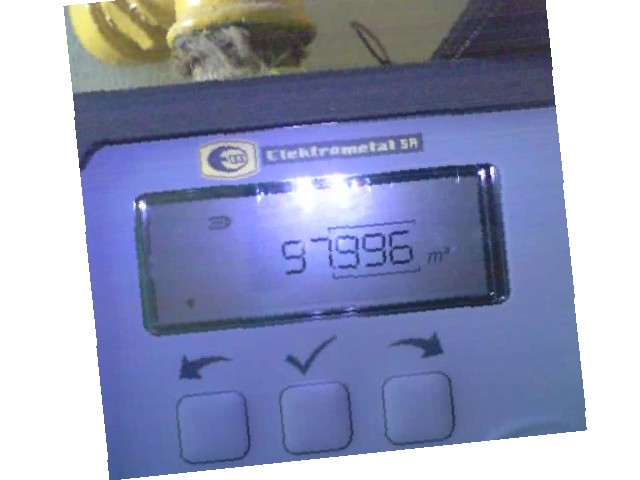
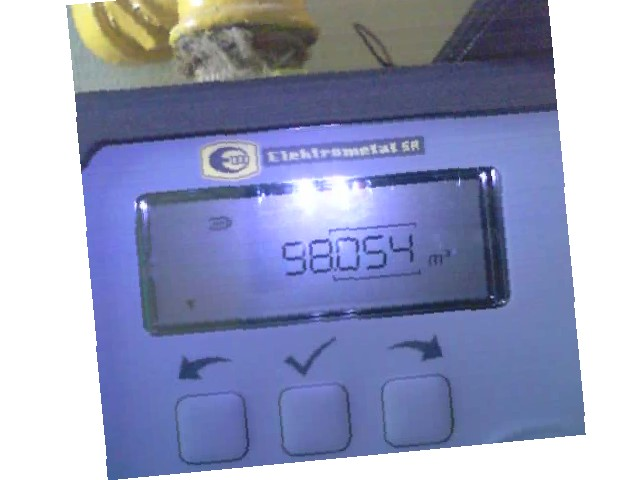
Automatyczna aktualizacja strony i danych

diff --git a/index.html b/index.html
@@ -35,11 +35,11 @@
 <body>
     <div class="container">
         <h1>Bieżący Stan Licznika</h1>
-        <div class="status">Ostatnia aktualizacja danych:<br><span class="timestamp">2026-10-27 10:42:42</span></div>
+        <div class="status">Ostatnia aktualizacja danych:<br><span class="timestamp">2026-10-27 10:48:09</span></div>
         <div class="odczyt">93498 m³</div>
         <div class="uwaga">Ostatni odczyt się nie powiódł, wyświetlana jest poprzednia poprawna wartość.</div>
         <h3>Aktualne zdjęcie z gazomierza:</h3>
-        <img src="img_tmp/alg.jpg?t=1793094162" alt="Zdjęcie licznika">
+        <img src="img_tmp/alg.jpg?t=1793094489" alt="Zdjęcie licznika">
     </div>
 </body>
 </html>
